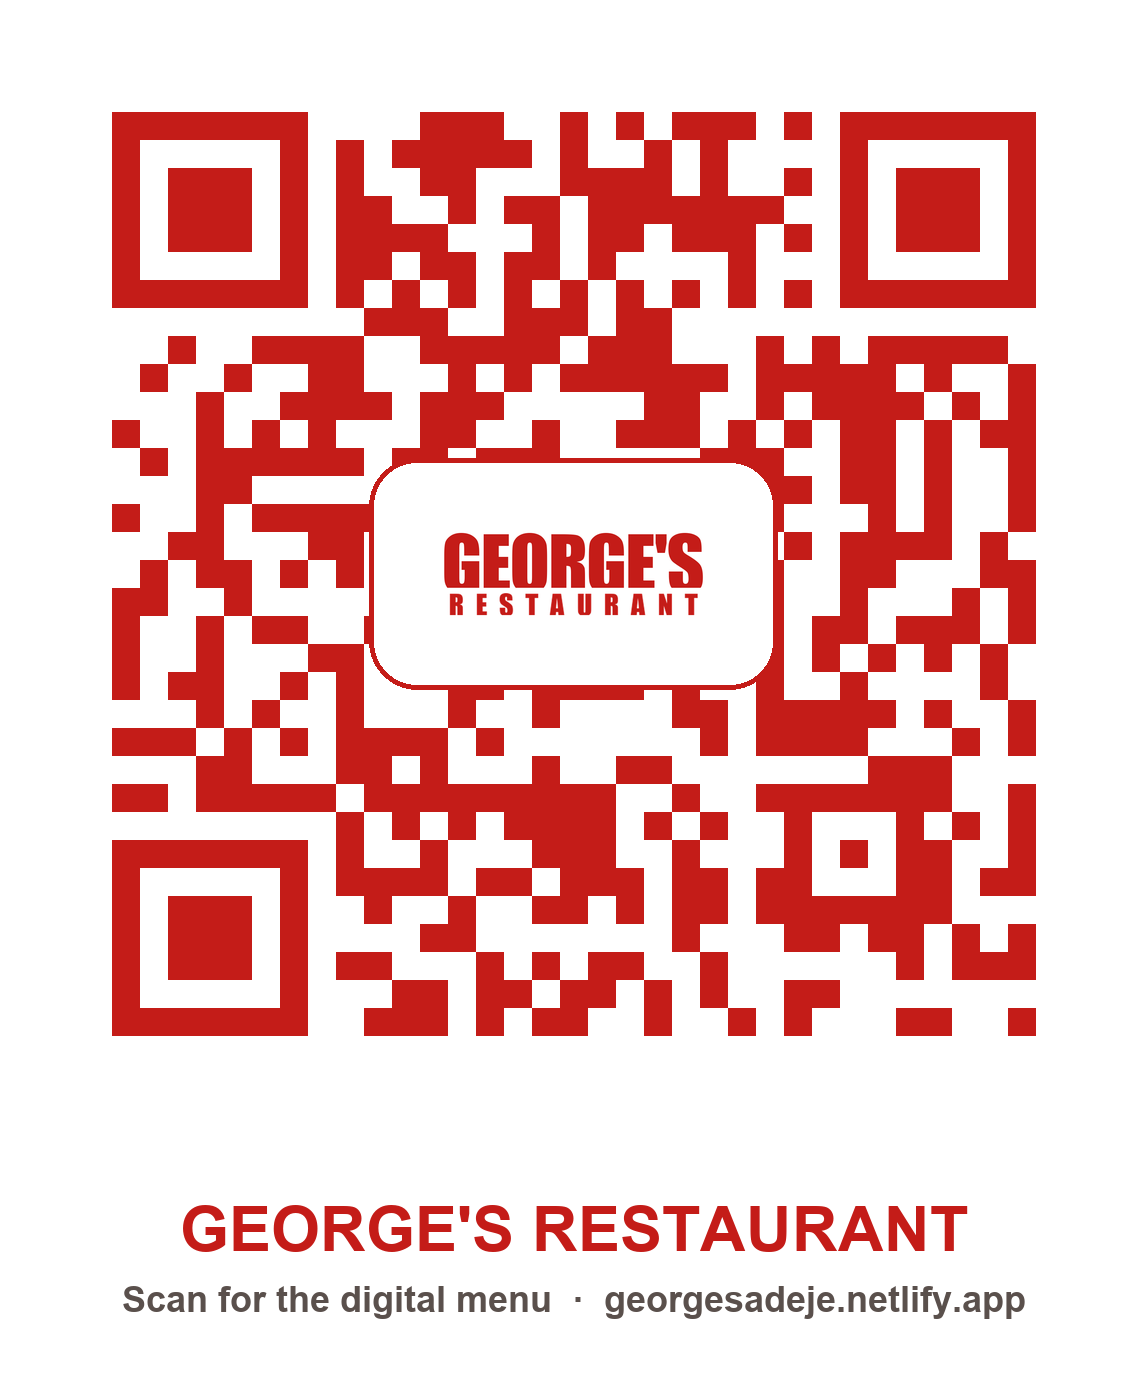
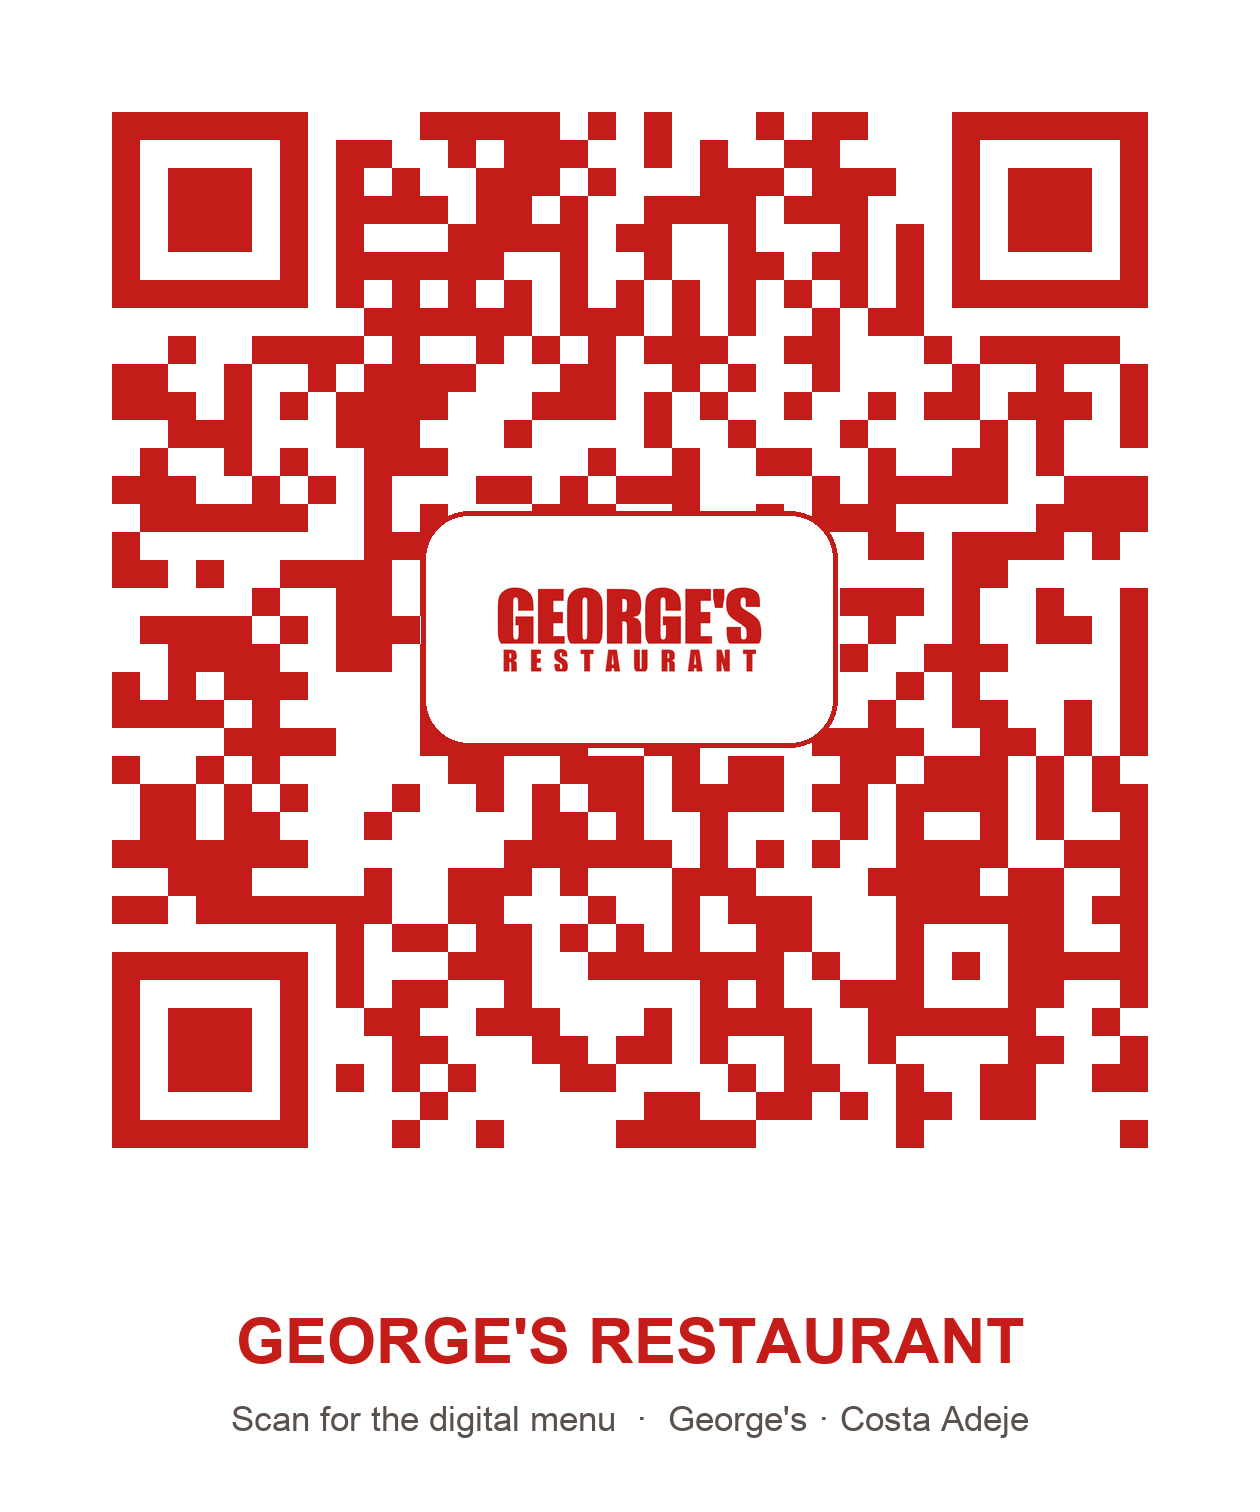
Fix share URL on GitHub Pages; live QR target

diff --git a/index.html b/index.html
@@ -34,8 +34,8 @@
   <meta name="geo.position" content="28.09411;-16.72506" />
   <meta name="ICBM" content="28.09411, -16.72506" />
   <meta name="keywords" content="George's Restaurant, Costa Adeje, El Madroñal, Adeje, Tenerife, Chinese restaurant, Mediterranean, pizza, paella, carta digital, georgesadeje" />
-  <link rel="canonical" href="https://georgesadeje.netlify.app/" id="canonical-link" />
-  <meta property="og:url" content="https://georgesadeje.netlify.app/" id="og-url" />
+  <link rel="canonical" href="https://dj-477.github.io/georgesadeje/" id="canonical-link" />
+  <meta property="og:url" content="https://dj-477.github.io/georgesadeje/" id="og-url" />
   <meta property="og:locale" content="en_GB" />
   <meta property="og:locale:alternate" content="es_ES" />
   <meta property="og:locale:alternate" content="de_DE" />
@@ -49,8 +49,8 @@
     "@type": "Restaurant",
     "name": "George's Restaurant",
     "alternateName": "George's Restaurante",
-    "image": "https://georgesadeje.netlify.app/assets/logo-on-black.png",
-    "url": "https://georgesadeje.netlify.app/",
+    "image": "https://dj-477.github.io/georgesadeje/assets/logo-on-black.png",
+    "url": "https://dj-477.github.io/georgesadeje/",
     "telephone": "+34922717613",
     "email": "Rest.georges13@gmail.com",
     "servesCuisine": ["Chinese", "Mediterranean", "Spanish", "Italian", "Asian"],
@@ -71,7 +71,7 @@
       "latitude": 28.09411,
       "longitude": -16.72506
     },
-    "hasMenu": "https://georgesadeje.netlify.app/#menu-root",
+    "hasMenu": "https://dj-477.github.io/georgesadeje/#menu-root",
     "openingHoursSpecification": [
       {
         "@type": "OpeningHoursSpecification",
@@ -956,8 +956,18 @@
     const PHONE_HREF = "tel:+34922717613";
     const PHONE_LABEL = "+34 922 71 76 13";
     const EMAIL = "Rest.georges13@gmail.com";
-    const CANONICAL_HOST = "https://georgesadeje.netlify.app/";
-    const LIVE_URL = (typeof location !== "undefined" ? location.origin + "/" : "./");
+    const CANONICAL_HOST = "https://dj-477.github.io/georgesadeje/";
+    function siteRoot() {
+      try {
+        if (location.origin && !/127\.0\.0\.1|localhost/.test(location.origin)) {
+          const path = location.pathname.replace(/index\.html$/i, "");
+          const dir = path.endsWith("/") ? path : path.replace(/\/[^/]*$/, "/");
+          return location.origin + (dir || "/");
+        }
+      } catch (_) {}
+      return CANONICAL_HOST;
+    }
+    const LIVE_URL = (typeof location !== "undefined" ? siteRoot() : CANONICAL_HOST);
     const LANGS = ["en", "es", "de", "fr", "it", "ca"];
 
     const UI = {
@@ -1976,12 +1986,7 @@
     }
 
     function publicUrl() {
-      try {
-        if (location.origin && !/127\.0\.0\.1|localhost/.test(location.origin)) {
-          return location.origin + "/";
-        }
-      } catch (_) {}
-      return CANONICAL_HOST;
+      return siteRoot();
     }
 
     function showToast(msg) {

diff --git a/sw.js b/sw.js
@@ -1,4 +1,4 @@
-const CACHE = "georges-menu-v20260813b";
+const CACHE = "georges-menu-v20260813c";
 const PRECACHE = [
   "./",
   "./index.html",
